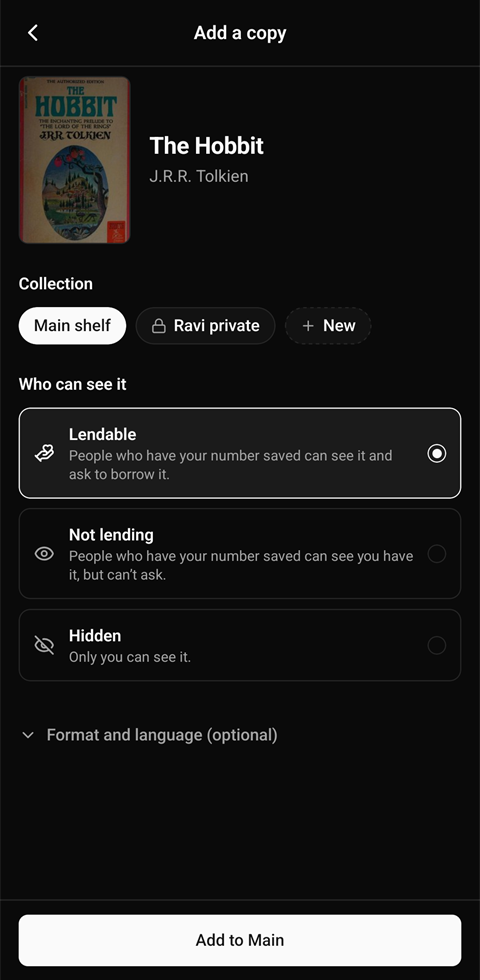
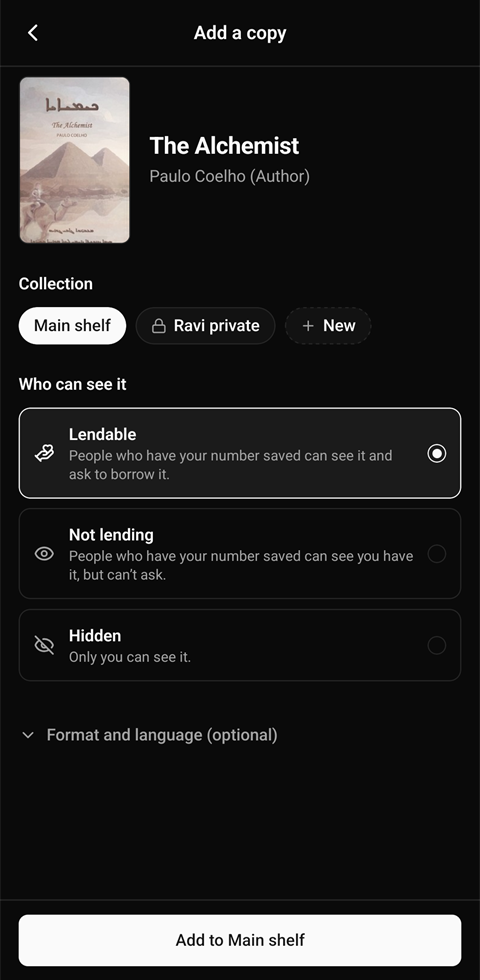
fix: cut-off button labels, delete-account wording, lost catalogue covers
- A button whose only content is its label lets the label fill the
  button, so Android no longer drops the last word ("Yes, it's back",
  "Add to Main shelf")
- Delete-account check says "You have no open loans or requests."
  instead of pointing at an empty list
- resolveBook takes the cover from Open Library search when a work
  record has none, and fills it in on works saved earlier
- User guide: retook the screenshots that showed the old labels

Changed region(s): [[0.0312, 0.0612, 0.2812, 0.2449], [0.3125, 0.1224, 0.625, 0.1837], [0.375, 0.949, 0.625, 0.9796]]

diff --git a/functions/test/unit/books.test.ts b/functions/test/unit/books.test.ts
@@ -55,6 +55,12 @@ function memoryStore() {
       if (!works.has(id)) works.set(id, w);
       return works.get(id) as WorkData;
     },
+    fillWorkCover: async (id, coverUrl) => {
+      const w = works.get(id);
+      if (!w) return null;
+      if (!w.coverUrl) works.set(id, { ...w, coverUrl });
+      return works.get(id) as WorkData;
+    },
   };
   return { store, isbns, works };
 }
@@ -307,6 +313,41 @@ describe("resolveBook", () => {
     );
     expect(r.edition.publisher).toBe("Mariner Books");
     expect(mem.isbns.get("9780547928227")?.workId).toBe("ol_OL27482W");
+  });
+
+  describe("a work record without a cover uses the cover search shows", () => {
+    const KEY = "OL42974242W";
+    const searchUrl = `${OL}/search.json?q=${encodeURIComponent(`key:"/works/${KEY}"`)}&fields=key,cover_i&limit=1`;
+    const routes = (search: Route): Record<string, Route> => ({
+      [`${OL}/works/${KEY}.json`]: { status: 200, body: { title: "The Alchemist", key: `/works/${KEY}` } },
+      [searchUrl]: search,
+    });
+    const found: Route = { status: 200, body: { docs: [{ key: `/works/${KEY}`, cover_i: 15075893 }] } };
+    const COVER = "https://covers.openlibrary.org/b/id/15075893-L.jpg";
+
+    it("on a new work", async () => {
+      const r = await resolveBook({ olWorkKey: KEY }, { store: mem.store, fetch: fakeFetch(routes(found)).fn });
+      expect(r.work.coverUrl).toBe(COVER);
+      expect(r.edition.coverUrl).toBe(COVER);
+      expect(mem.works.get(`ol_${KEY}`)?.coverUrl).toBe(COVER);
+    });
+
+    it("on a work saved earlier without one", async () => {
+      await resolveBook({ olWorkKey: KEY }, { store: mem.store, fetch: fakeFetch(routes({ status: 503 })).fn });
+      expect(mem.works.get(`ol_${KEY}`)?.coverUrl).toBeNull();
+      const r = await resolveBook({ olWorkKey: KEY }, { store: mem.store, fetch: fakeFetch(routes(found)).fn });
+      expect(r.edition.coverUrl).toBe(COVER);
+      expect(mem.works.get(`ol_${KEY}`)?.coverUrl).toBe(COVER);
+    });
+
+    it("ignores a search hit for another work, and a search failure", async () => {
+      const other: Route = { status: 200, body: { docs: [{ key: "/works/OL1W", cover_i: 1 }] } };
+      const r = await resolveBook({ olWorkKey: KEY }, { store: mem.store, fetch: fakeFetch(routes(other)).fn });
+      expect(r.edition.coverUrl).toBeNull();
+      const down = fakeFetch({ ...routes(new Error("ECONNRESET")) });
+      const r2 = await resolveBook({ olWorkKey: KEY }, { store: mem.store, fetch: down.fn });
+      expect(r2.workId).toBe(`ol_${KEY}`);
+    });
   });
 
   it("unknown olWorkKey is not-found; malformed is invalid-argument", async () => {

diff --git a/src/components/ui/button.tsx b/src/components/ui/button.tsx
@@ -1,6 +1,7 @@
-import { PressableLabel, TextClassContext } from '@/components/ui/text';
+import { PressableLabel, Text, TextClassContext } from '@/components/ui/text';
 import { cn } from '@/lib/utils';
 import { cva, type VariantProps } from 'class-variance-authority';
+import * as React from 'react';
 import { Platform, Pressable, type Insets } from 'react-native';
 
 const buttonVariants = cva(
@@ -96,6 +97,28 @@ const buttonTextVariants = cva(
   }
 );
 
+/**
+ * Label classes for a pressable. A label that is the pressable's only content also grows to fill
+ * it: on Android a centred label can be laid out a fraction of a pixel narrower than it measured,
+ * so its last word wraps onto a second line that has no room and vanishes ("Yes, it’s" for
+ * "Yes, it’s back"). Filling the width leaves room to spare; `text-center` keeps it centred.
+ * Labels next to an icon keep their own width so the icon stays beside the text.
+ */
+function buttonLabelClass(
+  variant: VariantProps<typeof buttonTextVariants>['variant'],
+  size: VariantProps<typeof buttonTextVariants>['size'],
+  children: unknown
+): string {
+  return cn(buttonTextVariants({ variant, size }), isLoneLabel(children) && 'grow');
+}
+
+/** True when the only child (ignoring null and false) is a `Text`. */
+function isLoneLabel(children: unknown): boolean {
+  if (typeof children === 'function') return false;
+  const kids = React.Children.toArray(children as React.ReactNode);
+  return kids.length === 1 && React.isValidElement(kids[0]) && kids[0].type === Text;
+}
+
 type ButtonProps = React.ComponentProps<typeof Pressable> &
   React.RefAttributes<typeof Pressable> &
   VariantProps<typeof buttonVariants>;
@@ -113,7 +136,7 @@ const HIT_SLOP: Record<NonNullable<ButtonProps['size']>, Insets> = {
 
 function Button({ className, variant, size, ...props }: ButtonProps) {
   return (
-    <TextClassContext.Provider value={buttonTextVariants({ variant, size })}>
+    <TextClassContext.Provider value={buttonLabelClass(variant, size, props.children)}>
       <PressableLabel>
         <Pressable
           className={cn(
@@ -130,5 +153,5 @@ function Button({ className, variant, size, ...props }: ButtonProps) {
   );
 }
 
-export { Button, buttonTextVariants, buttonVariants };
+export { Button, buttonLabelClass, buttonTextVariants, buttonVariants };
 export type { ButtonProps };

diff --git a/functions/src/lib/books.ts b/functions/src/lib/books.ts
@@ -197,6 +197,24 @@ export async function fetchOpenLibraryWork(workKey: string, fetchImpl: FetchLike
   };
 }
 
+/**
+ * The cover Open Library's search shows for a work. Some work records have no
+ * `covers` even though search shows one (from one of the work's editions), so a
+ * book picked from search would otherwise be saved without the cover the user
+ * just saw. Best effort: null on any failure.
+ */
+export async function fetchOpenLibrarySearchCover(workKey: string, fetchImpl: FetchLike): Promise<string | null> {
+  const q = encodeURIComponent(`key:"/works/${workKey}"`);
+  try {
+    const json = await getJson(fetchImpl, `${OL_BASE}/search.json?q=${q}&fields=key,cover_i&limit=1`);
+    const docs = isObj(json) && Array.isArray(json.docs) ? json.docs : [];
+    const doc = docs[0];
+    return isObj(doc) && str(doc.key) === `/works/${workKey}` ? olCoverUrl(doc.cover_i) : null;
+  } catch {
+    return null;
+  }
+}
+
 // ---- Google Books -----------------------------------------------------------
 
 export interface GbVolume {
@@ -294,6 +312,8 @@ export interface BookStore {
   getWork(workId: string): Promise<WorkData | null>;
   /** Create the work unless it already exists; returns the stored version. */
   createWork(workId: string, work: WorkData): Promise<WorkData>;
+  /** Set the cover of a stored work that has none; returns the stored version. */
+  fillWorkCover(workId: string, coverUrl: string): Promise<WorkData | null>;
 }
 
 export type ResolveBookInput =
@@ -458,7 +478,12 @@ export async function resolveBook(
         throw err;
       }
       if (!fetched) throw new HttpsError("not-found", `Open Library has no work ${key}.`);
+      if (!fetched.coverUrl) fetched.coverUrl = await fetchOpenLibrarySearchCover(key, fetchImpl);
       work = await store.createWork(workId, fetched);
+    } else if (!work.coverUrl) {
+      // Saved earlier without a cover: fill it in now if search has one.
+      const cover = await fetchOpenLibrarySearchCover(key, fetchImpl);
+      if (cover) work = (await store.fillWorkCover(workId, cover)) ?? work;
     }
     const edition = isbn
       ? await editionForIsbn(isbn, workId, work, store, async () => {

diff --git a/src/components/ui/__tests__/pressable-label.test.ts b/src/components/ui/__tests__/pressable-label.test.ts
@@ -1,8 +1,11 @@
 import * as fs from 'fs';
 import * as path from 'path';
 
-import { buttonTextVariants } from '@/components/ui/button';
-import { labelPointerEvents } from '@/components/ui/text';
+import * as React from 'react';
+import { View } from 'react-native';
+
+import { buttonLabelClass, buttonTextVariants } from '@/components/ui/button';
+import { labelPointerEvents, Text } from '@/components/ui/text';
 
 // The primitives ship untranspiled JSX; the label logic doesn't need them.
 jest.mock('@rn-primitives/slot', () => ({ Slot: () => null }));
@@ -57,5 +60,22 @@ describe('button labels pass touches through (QA-ANDROID bug 2)', () => {
     };
     walk(path.join(__dirname, '..', '..', '..'));
     expect(offenders).toEqual([]);
+  });
+});
+
+// QA (user guide run): "Yes, it’s back" showed as "Yes, it’s" and "Add to Main shelf" as
+// "Add to Main" on Android. A label that is the button's only content fills the button.
+describe('lone button labels fill the button', () => {
+  const label = React.createElement(Text, null, 'Yes, it’s back');
+  const icon = React.createElement(View);
+
+  it('grows a label that is the only child, ignoring null and false', () => {
+    expect(buttonLabelClass('default', 'default', label).split(/\s+/)).toContain('grow');
+    expect(buttonLabelClass('default', 'lg', [null, label, false]).split(/\s+/)).toContain('grow');
+  });
+
+  it('leaves a label next to an icon at its own width', () => {
+    expect(buttonLabelClass('default', 'default', [icon, label]).split(/\s+/)).not.toContain('grow');
+    expect(buttonLabelClass('default', 'default', () => label).split(/\s+/)).not.toContain('grow');
   });
 });

diff --git a/src/components/ui/alert-dialog.tsx b/src/components/ui/alert-dialog.tsx
@@ -1,4 +1,4 @@
-import { buttonTextVariants, buttonVariants } from '@/components/ui/button';
+import { buttonLabelClass, buttonVariants } from '@/components/ui/button';
 import { DialogKeyboardFrame } from '@/components/ui/dialog-keyboard-frame';
 import { NativeOnlyAnimatedView } from '@/components/ui/native-only-animated-view';
 import { PressableLabel, TextClassContext } from '@/components/ui/text';
@@ -130,7 +130,7 @@ function AlertDialogAction({
   variant?: AlertDialogButtonVariant;
 }) {
   return (
-    <TextClassContext.Provider value={buttonTextVariants({ variant })}>
+    <TextClassContext.Provider value={buttonLabelClass(variant, undefined, props.children)}>
       <PressableLabel>
         <AlertDialogPrimitive.Action
           className={cn(buttonVariants({ variant }), props.disabled && 'opacity-50', className)}
@@ -149,7 +149,7 @@ function AlertDialogCancel({
   variant?: AlertDialogButtonVariant;
 }) {
   return (
-    <TextClassContext.Provider value={buttonTextVariants({ variant })}>
+    <TextClassContext.Provider value={buttonLabelClass(variant, undefined, props.children)}>
       <PressableLabel>
         <AlertDialogPrimitive.Cancel
           className={cn(buttonVariants({ variant }), props.disabled && 'opacity-50', className)}

diff --git a/src/features/me/__tests__/delete-precheck.test.ts b/src/features/me/__tests__/delete-precheck.test.ts
@@ -1,5 +1,6 @@
 import { asBorrower, loan } from '@/features/loans/__fixtures__/loans';
 import {
+  deleteCheckIntro,
   deletePrecheck,
   hasLoanImpact,
   openRequestsLine,
@@ -34,5 +35,13 @@ describe('deletePrecheck', () => {
     expect(outWithFriendsLine(2)).toMatch(/^2 books are out with friends\./);
     expect(openRequestsLine(1)).toBe('Your 1 open request will be cancelled.');
     expect(openRequestsLine(2)).toBe('Your 2 open requests will be cancelled.');
+  });
+
+  it('points at the loans list only when there is one', () => {
+    const some = deletePrecheck('me', [loan({ status: 'active' }, 'a')], []);
+    expect(deleteCheckIntro(some)).toMatch(/Here’s what happens to your loans\.$/);
+    const none = deletePrecheck('me', [loan({ status: 'returned' }, 'r')], []);
+    expect(deleteCheckIntro(none)).toMatch(/You have no open loans or requests\.$/);
+    expect(deleteCheckIntro(none)).not.toMatch(/what happens/);
   });
 });

diff --git a/src/features/me/delete-account-dialog.tsx b/src/features/me/delete-account-dialog.tsx
@@ -22,6 +22,7 @@ import { useLoanPeople } from '@/features/loans/use-loan-people';
 import { deleteAccountAndSignOut } from '@/features/me/account';
 import { DELETE_CONFIRMATION, isDeleteConfirmed } from '@/features/me/delete-confirmation';
 import {
+  deleteCheckIntro,
   deletePrecheck,
   openRequestsLine,
   outWithFriendsLine,
@@ -88,8 +89,7 @@ export function DeleteAccountButton() {
             <AlertDialogHeader>
               <AlertDialogTitle>Before you delete your account</AlertDialogTitle>
               <AlertDialogDescription>
-                Your books, collections, reviews, wishlist and profile will be removed. Here’s what
-                happens to your loans.
+                {deleteCheckIntro(check)}
               </AlertDialogDescription>
             </AlertDialogHeader>
             {/* pr-2: the web scrollbar must not cover the text (QA B21). */}

diff --git a/src/features/me/delete-precheck.ts b/src/features/me/delete-precheck.ts
@@ -42,6 +42,14 @@ export function hasLoanImpact(p: DeletePrecheck): boolean {
   return p.outWithFriends.length + p.lentToNonApp.length + p.borrowing.length + p.openRequests > 0;
 }
 
+/** The sheet's opening line; it points at the loans below only when there are some. */
+export function deleteCheckIntro(p: DeletePrecheck): string {
+  const removed = 'Your books, collections, reviews, wishlist and profile will be removed.';
+  return hasLoanImpact(p)
+    ? `${removed} Here’s what happens to your loans.`
+    : `${removed} You have no open loans or requests.`;
+}
+
 const plural = (n: number, one: string, many: string) => (n === 1 ? one : many);
 
 /** Heading line for the books out with friends. */

diff --git a/functions/src/handlers/books.ts b/functions/src/handlers/books.ts
@@ -43,6 +43,17 @@ export function firestoreBookStore(db: Firestore, now: () => Date): BookStore {
         return work;
       });
     },
+    async fillWorkCover(workId, coverUrl) {
+      const ref = db.collection(COL.works).doc(workId);
+      return db.runTransaction(async (tx) => {
+        const s = await tx.get(ref);
+        if (!s.exists) return null;
+        const stored = stripTimestamps(s.data() as WorkDoc);
+        if (stored.coverUrl) return stored;
+        tx.update(ref, { coverUrl, updatedAt: ts(now()) });
+        return { ...stored, coverUrl };
+      });
+    },
   };
 }
 

diff --git a/PROGRESS.md b/PROGRESS.md
@@ -18,7 +18,7 @@ Driver: main Claude session; workstreams below run as parallel agents.
 | 15 | Push notifications prep | push agent | Ready, waiting on owner | One EAS project, two variants (dev = com.lendshelf.app.dev). eas.json, env-provided Firebase files, push retries + optional Expo access token. Owner steps: README → Push notifications setup. |
 | 16 | Overdue, nudge, expiry, due-soon, pick-up end on dev | time-flows agent | Done | All 6 pass. Bug D fixed: date-only due dates were UTC midnight (05:30 IST), so Overdue fired on the due day and Due soon 2 days early. Now noon IST + calendar-day checks. All 19 dev functions redeployed. |
 | 17 | Two-phone scenarios S0-S19 (docs/ux/MULTI-DEVICE-TESTS.md) | QA agent, lead | Done | 18 pass, 2 partly; the 4 fixes re-checked on phones (all pass). Bug E (delete a shared collection into a private one left requests open) and bug F (lending to an app user's typed number offered an invite) fixed, plus 4 polish items; recordLoan and dailyMaintenance redeployed to dev. Results: docs/ux/QA-ANDROID.md. Prod deploy waits for the user. |
-| 18 | Documentation: overview docs and illustrated user guide | docs agents, lead | Done | docs/overview/ (start at README.md): user flows F1-F15, feature map, test map, core logic, architecture, decisions and assumptions. docs/user-guide/USER-GUIDE.md: every flow with phone screenshots (70 images, 4.8 MB, test accounts only). Found while capturing, not fixed yet: "Yes, it's back" and "Add to Main shelf" button labels truncated; delete-account pre-check says "Here's what happens to your loans." with nothing after it when there are none; a catalogue pick can save without its cover (The Alchemist); camera may stay active in the Add books Search tab (unconfirmed). Also fixed: changing the due date is offered on active loans only (the server rejects it once the borrower says it's back). |
+| 18 | Documentation: overview docs and illustrated user guide | docs agents, lead | Done | docs/overview/ (start at README.md): user flows F1-F15, feature map, test map, core logic, architecture, decisions and assumptions. docs/user-guide/USER-GUIDE.md: every flow with phone screenshots (70 images, 4.8 MB, test accounts only). Found while capturing and fixed on 28 Nov (checked on the Pixel): "Yes, it’s back" and "Add to Main shelf" were cut off (a button whose only content is its label now lets the label fill the button); the delete-account check said "Here’s what happens to your loans." with nothing after it (now "You have no open loans or requests."); a catalogue pick could save without the cover search showed (resolveBook now takes the cover from Open Library search when the work record has none, and fills it in on works saved earlier; deployed to dev). The camera staying on in the Search tab was not real: it closes on switching tabs and when the app is left. Also fixed: changing the due date is offered on active loans only (the server rejects it once the borrower says it's back). |
 | 4 | Real Firebase: Firestore, Auth, apps, rules/indexes | lead | Done | Both projects. Dev has test numbers +91 90000 00001–05 (code in firebase-config/TEST-NUMBERS.md). |
 | 5 | Real Firebase: Cloud Functions, Storage bucket, scheduler | functions agent, lead | Done | Both projects: 19/19 functions, buckets in us-central1 (free tier) with rules. Dev checked end to end on web (sign-in, onUserCreated, completeProfile, syncContacts). IAM: 3 roles added by hand, then retries for propagation; see functions/README.md. |
 | 6 | Env switching (`APP_ENV=dev|prod`; emulator mode removed in row 10) | lead | Done | `npm run firebase:config` downloads git-ignored configs. |

diff --git a/docs/user-guide/USER-GUIDE.md b/docs/user-guide/USER-GUIDE.md
@@ -241,7 +241,7 @@ flowchart LR
 
 **7. When it comes back.** Tap **Got it back** on the row and confirm.
 
-<img src="img/f07-07-got-back-sheet.png" width="260" alt="Dialog: Got Sapiens back from Nikhil? It goes back on your shelf and the loan closes">
+<img src="img/f07-07-got-back-sheet.png" width="260" alt="Dialog: Got Animal Farm back from Asha? It goes back on your shelf and the loan closes, with Yes, it’s back and Cancel">
 
 **8. Back on the shelf.** A message confirms it and the loan moves to **Recent**.
 
@@ -257,15 +257,15 @@ flowchart LR
 
 **2. Search by title.** Pick the right edition from the results.
 
-<img src="img/f08-02-results.jpg" width="260" alt="Search results for The Hobbit with covers, authors and years">
+<img src="img/f08-02-results.jpg" width="260" alt="Search results for The Alchemist with covers, authors and years">
 
 **3. Choose who can see it.** Pick a collection and **Lendable**, **Not lending** or **Hidden**, then tap **Add**.
 
-<img src="img/f08-03-confirm.png" width="260" alt="Add a copy: Collection chips, Who can see it with Lendable, Not lending and Hidden, and an Add button">
+<img src="img/f08-03-confirm.png" width="260" alt="Add a copy of The Alchemist: Collection chips, Who can see it with Lendable, Not lending and Hidden, and Add to Main shelf">
 
 **4. Done.** Add more, or tap **Done**.
 
-<img src="img/f08-04-added.png" width="260" alt="The Hobbit is on your shelf, Added to Main shelf, Done and Add more books">
+<img src="img/f08-04-added.png" width="260" alt="The Alchemist is on your shelf, Added to Main shelf, Done and Add more books">
 
 ## F9 Manage my library
 
@@ -397,7 +397,7 @@ Push needs the EAS project set up (see the README). Until then, the dev build sh
 
 **2. Delete account: check first.** *Tara's phone.* Me › **Delete account** says what will be removed and what happens to your loans, with an export button. Tap **Continue**.
 
-<img src="img/f15-02-delete-precheck.png" width="260" alt="Before you delete your account: what will be removed, Export, Continue and Cancel">
+<img src="img/f15-02-delete-precheck.png" width="260" alt="Before you delete your account: what will be removed, You have no open loans or requests, Export, Continue and Cancel">
 
 **3. Confirm.** Type DELETE and tap **Delete everything**. This can't be undone. Friends who have your books see that you left, and people who lent you a book keep your name and number on their record.
 
